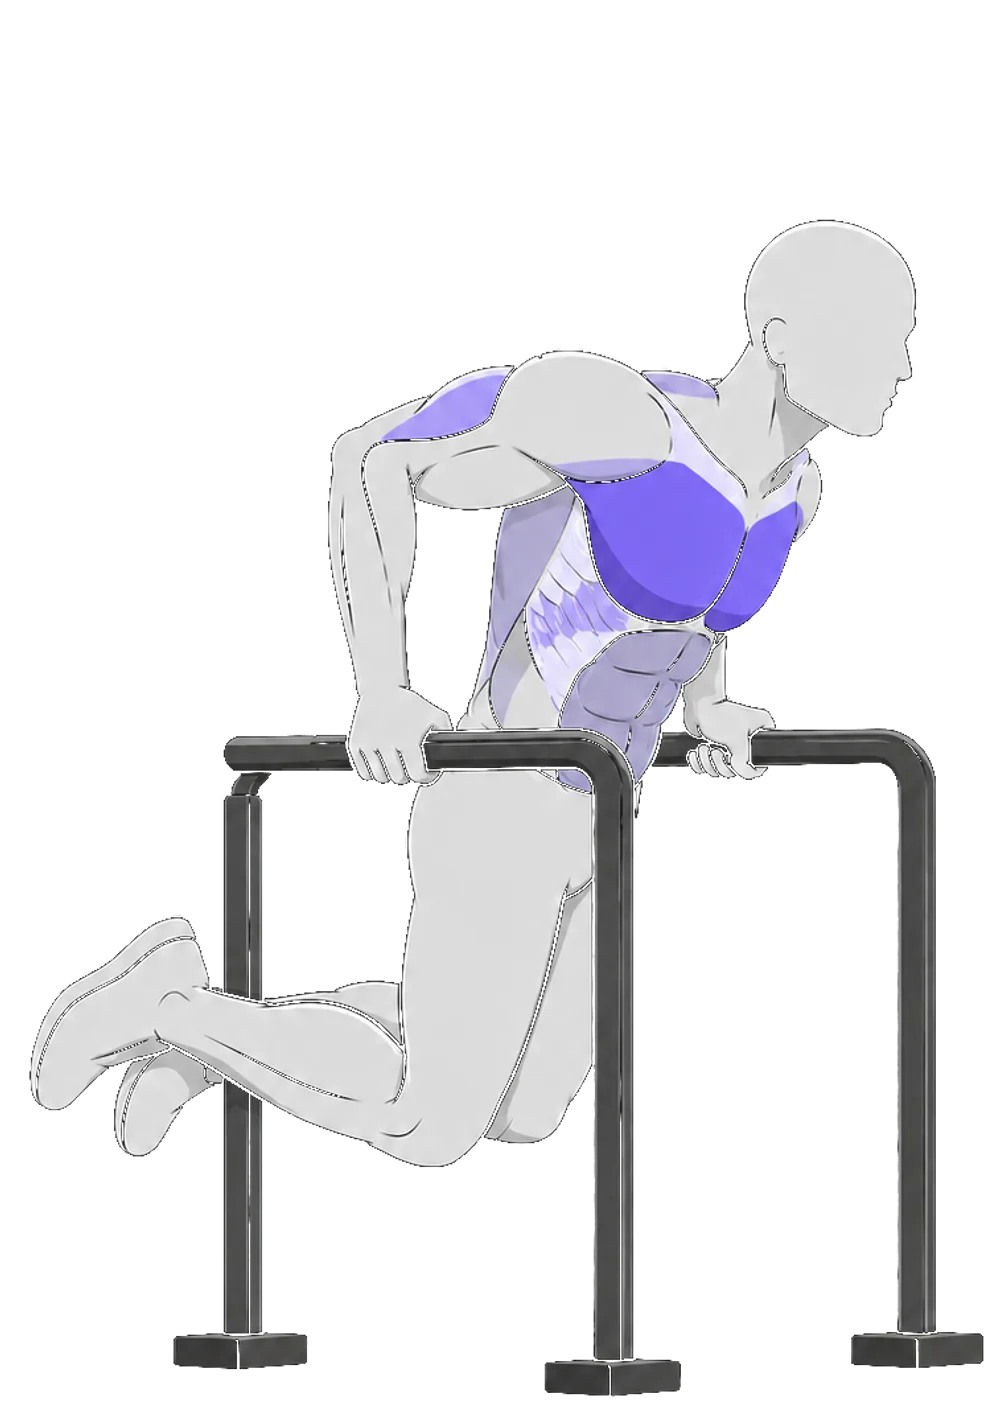
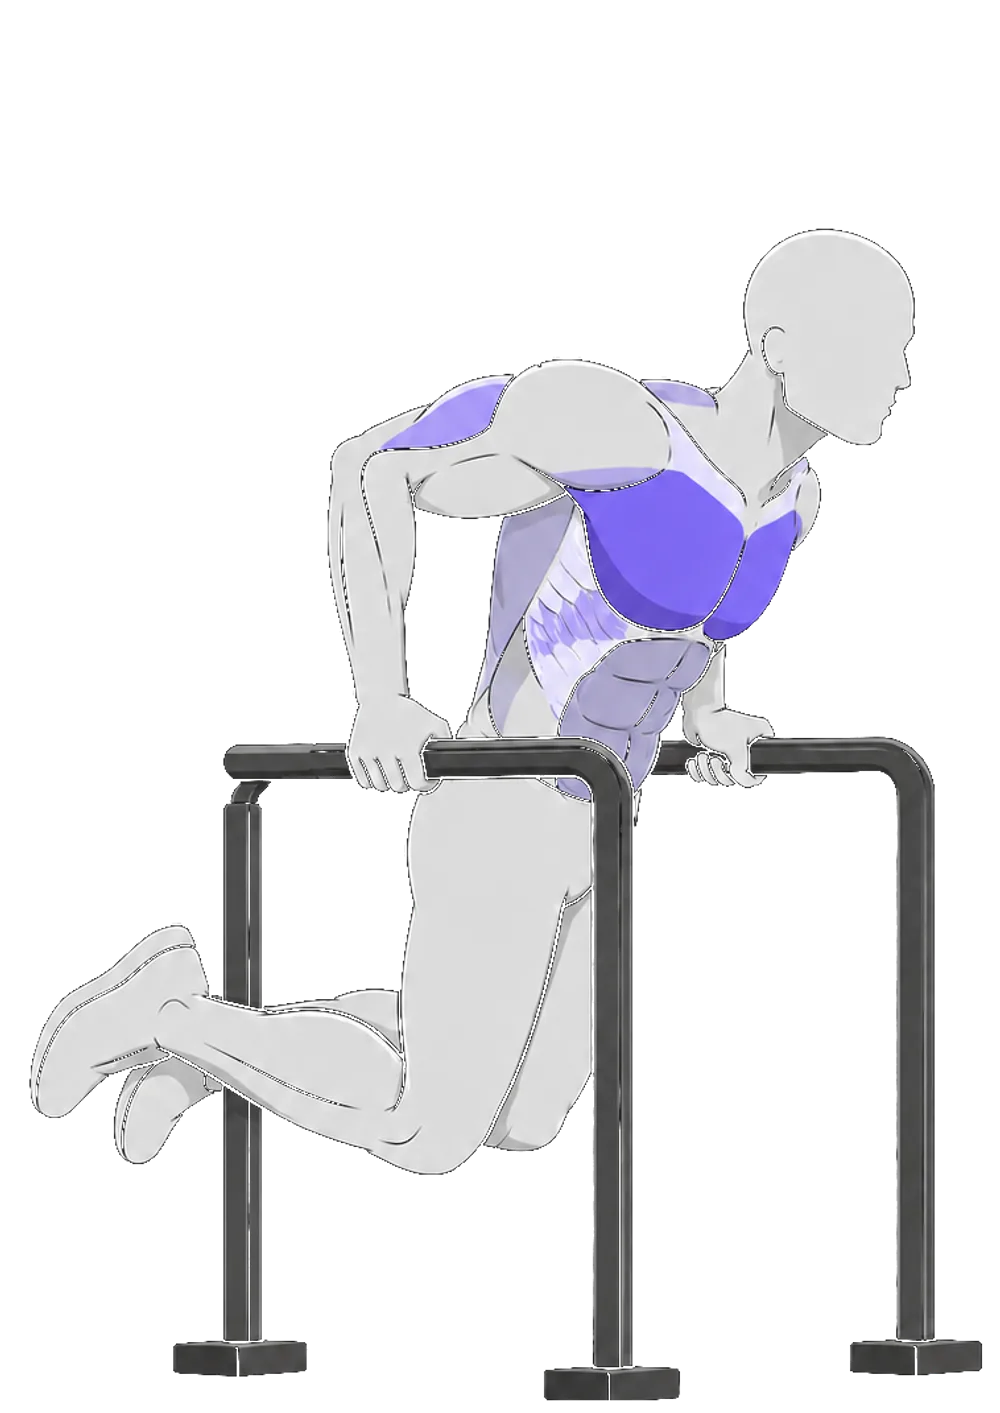
Form frames: rope pushdown, and a caption rule anchored on the wrong end (#2129)
* Form frames: rope pushdown, and a caption rule anchored on the wrong end

Third exercise, and the most consistent set so far — six per-position
images edited from the first.

  equipment overlap between frames    card 10%   dips 38%   pushdown 77-82%

The registration pass declines to move anything here, which is the gate
working: at 80% there is nothing a translation would improve.

THE CAPTION RULE WAS ANCHORED ON THE WRONG END. It tested the LAST
content band — short, standing clear of the picture above it — which
holds only when the caption is one solid run. Two of the six frames
split theirs into three and four bands, a descender or an antialiased
row stranded a couple of pixels below the rest, so the "caption" it
measured was a single row with a 2px gap. It failed the test and the
real caption shipped inside the frame.

Anchored on the FIGURE now: the figure is the tallest band by a wide
margin and everything below it is caption, however many pieces the text
breaks into. Guarded by requiring the remainder to be caption-sized, so
a figure drawn in two parts is never mistaken for one.

The dips frames are re-cut with the corrected rule and gain a little:
the old rule cut from the caption's own start, the new one from just
past the figure, removing the dead gap between them.

Three exercises now hold 1.5 MB of precached art. That is the number
that decides how many more are worth generating before these move to
storage and are fetched on demand.
[…]

Changed region(s): [[0.031, 0.1557, 0.992, 0.9965], [0.155, 0.9342, 0.31, 0.9965], [0.899, 0.1868, 0.93, 0.2803]]

diff --git a/src/lib/bodyRig.ts b/src/lib/bodyRig.ts
@@ -9666,6 +9666,56 @@ const FORM_BEATS: Record<string, FormPlacard> = {
     ],
   },
 
+  "rope-tricep-pushdown": {
+    /* Six per-position images, edited from the first (2026-09-04).
+       The most consistent set yet: equipment overlap runs 77-82%
+       between frames before any alignment, against dips' 38% and a
+       card's 10%, so the registration pass declines to move anything.
+
+       `t` runs stretch (elbows bent, rope high) to lockout, which is
+       this demo's own direction: concentricTo 1, startsAt "stretch".
+       The card's own text for position 1 says "arms extended" and its
+       own drawing shows them bent — the cue follows the picture. */
+    beats: [
+      {
+        t: 0,
+        label: "Start",
+        cue: "Elbows pinned, rope high, triceps stretched.",
+        image: "form-frames/rope-tricep-pushdown/1.webp",
+      },
+      {
+        t: 0.1,
+        label: "Set elbows",
+        cue: "Pin the elbows; upper arms stay still.",
+        image: "form-frames/rope-tricep-pushdown/2.webp",
+      },
+      {
+        t: 0.4,
+        label: "Initiate push",
+        cue: "Drive the rope down by extending.",
+        image: "form-frames/rope-tricep-pushdown/3.webp",
+      },
+      {
+        t: 0.7,
+        label: "Mid pushdown",
+        cue: "Keep pushing; the triceps contract.",
+        image: "form-frames/rope-tricep-pushdown/4.webp",
+      },
+      {
+        t: 1,
+        label: "Lockout",
+        cue: "Arms locked, spread the rope apart.",
+        image: "form-frames/rope-tricep-pushdown/5.webp",
+      },
+      {
+        t: 0,
+        label: "Controlled return",
+        cue: "Return slowly; elbows must not drift.",
+        image: "form-frames/rope-tricep-pushdown/6.webp",
+      },
+    ],
+  },
+
   squat: {
     beats: [
       { t: 0, label: "Set up", cue: "Bar on the traps, chest tall, brace." },

diff --git a/e2e/screenshots/form-demo.screens.capture.spec.ts b/e2e/screenshots/form-demo.screens.capture.spec.ts
@@ -106,6 +106,12 @@ const DEMOS: [id: string, name: string][] = [
   ["turkish-get-up", "Turkish Get-Up"],
   // Batch 18: the ankle joint — the last row.
   ["seated-calf-raise", "Seated Calf Raise"],
+  // Placards. These three render supplied art rather than the rig, so
+  // their frames are the only proof the extraction pipeline's output
+  // still composes into a readable position — a rig regression and a
+  // bad crop look nothing alike, and only one of them has unit tests.
+  // bench-press and dips are already above; this is the third.
+  ["rope-tricep-pushdown", "Rope Tricep Pushdown"],
 ];
 
 test.use({

diff --git a/CLAUDE.md b/CLAUDE.md
@@ -657,6 +657,18 @@ an hour:
   including the runtime's number grouping — `formatCalories` is
   `toLocaleString()` with no locale, so a comma-only pattern is a bet on
   the CI runner's locale.
+- **A `removed` row usually means the run did not finish, not that a
+  surface was deleted.** The diff and commit steps are `if: always()`,
+  so a job killed by `timeout-minutes` still force-pushes the frames it
+  managed to take — as the new BASELINE — and every frame whose spec
+  never ran reads as "removed". Hit on 2026-09-04: a full pass was
+  taking ~14 minutes against a 15-minute budget, and adding ONE exercise
+  to the form-demo list tipped it over; 15 frames across the solo-feed,
+  run-HUD, tooltip and home specs vanished at once. Nothing was wrong
+  with any of them. The budget is now 30 minutes, and an unsuccessful
+  capture step stamps an INCOMPLETE CAPTURE banner at the top of the
+  report — but check the run's conclusion before believing a cluster of
+  removals, and re-run rather than diffing against a truncated baseline.
 
 Localise before diagnosing: read the `diffs/` highlight and find the
 y-band the changed pixels occupy. If it is the map, or a sheet, suspect
@@ -1092,10 +1104,25 @@ Still open:
       is a fitness app: the demo teaches. The 03t captions already
       caught the rig claiming a locked arm at 152 degrees; nothing has
       checked the pictures to the same standard.
-- [ ] **Decide the scale question before cutting more cards.** One
-      exercise is ~72 KB; 152 at six frames each is ~18 MB of precached
-      assets, which is a different conversation about bundle size and
-      about generating 151 more cards.
+- [ ] **Decide the scale question before cutting more cards.** Corrected
+      2026-09-04 — the earlier figures here ("~72 KB per exercise",
+      "~18 MB of precached assets") were both wrong, and the second one
+      wrong in the way that mattered: **nothing precaches these.**
+      `public/sw.js`'s `STATIC_ASSETS` is the three-entry app shell, and
+      `.webp` falls into the stale-while-revalidate IMAGE branch — so a
+      user downloads a set only when they open that exercise's Form tab,
+      and it is runtime-cached after that. No user ever pays for the
+      whole library.
+      The real numbers, measured: ~500 KB per exercise at current
+      quality (424 / 468 / 632 KB for bench-press / dips /
+      rope-tricep-pushdown), so 1.5 MB for three and ~76 MB if all 152
+      were cut. That cost lands on the REPO and on every deploy
+      artifact, not on the client — which is a different and easier
+      conversation than a bundle-size one, and points at moving the
+      frames to Storage and fetching on demand rather than at cutting
+      fewer of them.
+      The other half is unchanged: generating 151 more cards is the
+      larger cost, and it is human-in-the-loop.
 
 ### Cost & margin operator setup (unit economics)
 

diff --git a/docs/visual-audit/form-motion-v2/README.md b/docs/visual-audit/form-motion-v2/README.md
@@ -2503,3 +2503,53 @@ It will read softer than dips, and that is the card, not the pipeline.
 Regenerating it the per-position way is the fix, and the flow is
 unchanged: `form-card-prompt.ts bench-press` already prints the
 two-step prompt.
+
+## STATUS 2026-09-04b — rope pushdown, and a caption rule that anchored wrong
+
+Third exercise, and the most consistent set so far. Six per-position
+images edited from the first:
+
+|                                  | card | dips | pushdown   |
+| -------------------------------- | ---- | ---- | ---------- |
+| equipment overlap between frames | 10%  | 38%  | **77–82%** |
+| after the alignment pass         | 23%  | 48%  | unchanged  |
+
+The registration pass declines to move anything here, which is the gate
+working: at 80% there is nothing a translation would improve.
+
+### The caption rule was anchored on the wrong end
+
+It tested the LAST content band — short, and standing clear of the
+picture above it. That holds only when the caption is one solid run.
+Two of the six frames split theirs into three and four bands, a
+descender or an antialiased row stranded a couple of pixels below the
+rest, so the "caption" it measured was a single row with a 2px gap. It
+failed the test, and the real caption shipped inside the frame.
+
+Anchored on the FIGURE now: the figure is the tallest band by a wide
+margin, and everything below it is caption however many pieces the text
+breaks into. Guarded by requiring the remainder to be caption-sized —
+under a fifth of the height — so a figure drawn in two parts is never
+mistaken for one.
+
+The dips frames were re-cut with the corrected rule. They gained a
+little: the old rule cut from the caption's own start, the new one from
+just past the figure, which removes the dead gap between them.
+
+### Where the three exercises stand
+
+|               | source           | figure region | upscale to the 900px displayed |
+| ------------- | ---------------- | ------------- | ------------------------------ |
+| dips          | six per-position | 758 px        | 1.2x                           |
+| rope pushdown | six per-position | 485 px        | 1.9x                           |
+| bench press   | one card         | 451 px        | 2.0x                           |
+
+The pushdown figure is narrow because the exercise is: a standing
+lifter at a cable stack occupies far less width than a body on a bench,
+and the shared canvas is the union of six of those. It is 1046px TALL,
+so the frame carries plenty of detail — the width figure is not the
+whole story for an upright exercise.
+
+Three exercises now hold 1.5 MB of precached art. That is the number
+that decides how many more are worth generating before the frames move
+to storage and are fetched on demand.
